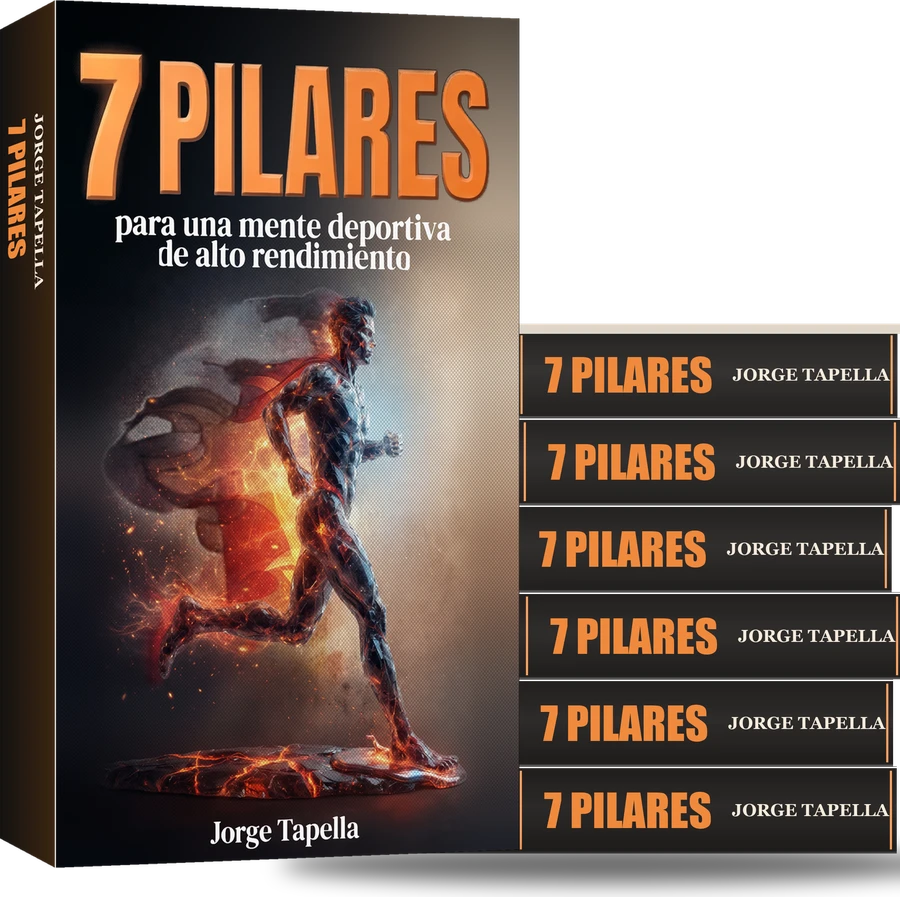
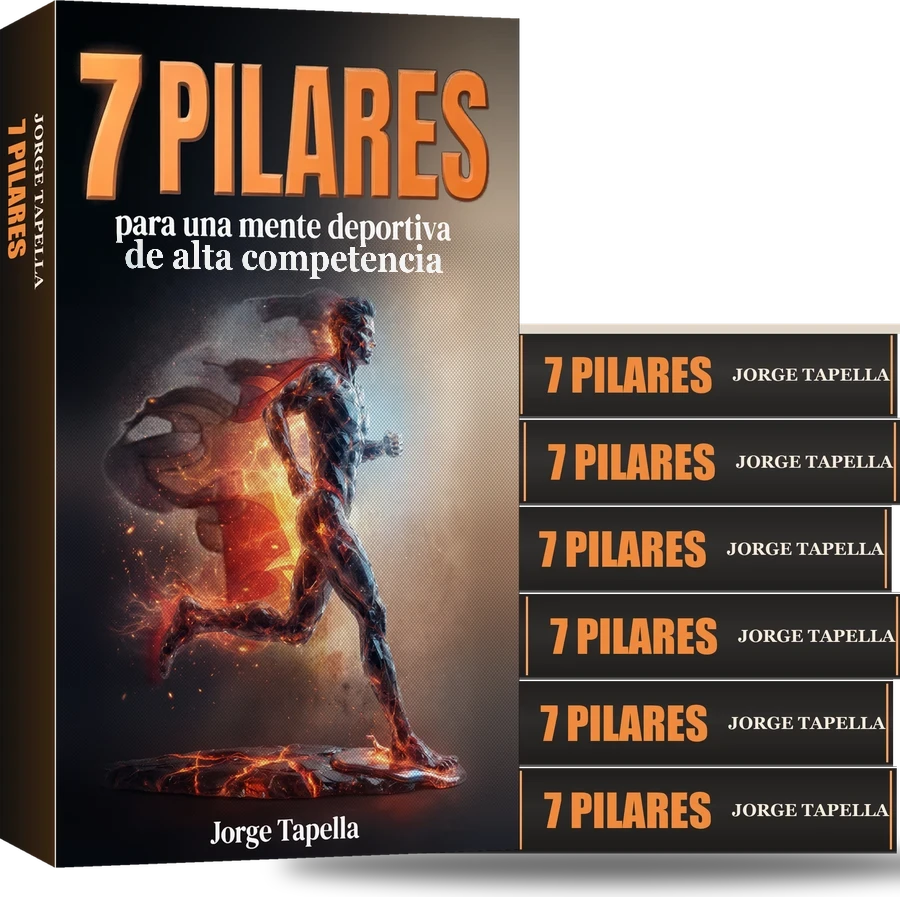
Tapa 7 Pilares: subtitulo 'de alta competencia' (libro 3D, pila y alt)

Changed region(s): [[0.1244, 0.2497, 0.4978, 0.3122]]

diff --git a/index.html b/index.html
@@ -39,7 +39,7 @@ src="https://www.facebook.com/tr?id=4065911757006473&ev=PageView&noscript=1"
   </script>
   <div class="hero-overlay"></div>
   <div class="hero-split">
-    <img class="hero-book" src="assets/img/libro-3d.webp?v=2" alt="Libro 7 Pilares para una Mente Deportiva, de Jorge Tapella" width="357" height="600">
+    <img class="hero-book" src="assets/img/libro-3d.webp?v=3" alt="Libro 7 Pilares para una Mente Deportiva, de Jorge Tapella" width="357" height="600">
   <div class="hero-content">
     <span class="eyebrow">PARA DEPORTISTAS QUE QUIEREN MÁS</span>
     <h1>TU CUERPO ESTÁ LISTO PARA<br>LAS GRANDES LIGAS,<br><span class="highlight">¿Y TU MENTE?</span></h1>
@@ -201,7 +201,7 @@ src="https://www.facebook.com/tr?id=4065911757006473&ev=PageView&noscript=1"
     <div class="offers-grid one">
       <article class="offer">
         <span class="offer-tag">EL LIBRO · EBOOK</span>
-        <div class="offer-media"><img src="assets/img/libro-3d.webp?v=2" alt="Libro 7 Pilares para una mente deportiva de alto rendimiento, de Jorge Tapella" width="357" height="600" loading="lazy"></div>
+        <div class="offer-media"><img src="assets/img/libro-3d.webp?v=3" alt="Libro 7 Pilares para una mente deportiva de alta competencia, de Jorge Tapella" width="357" height="600" loading="lazy"></div>
         <h3>7 Pilares para una Mente Deportiva</h3>
         <p class="offer-desc">Edición ampliada, para transformarte en un deportista de élite.</p>
         <ul class="offer-list">

diff --git a/social.html b/social.html
@@ -39,7 +39,7 @@ src="https://www.facebook.com/tr?id=4065911757006473&ev=PageView&noscript=1"
   </script>
   <div class="hero-overlay"></div>
   <div class="hero-split">
-    <img class="hero-book" src="assets/img/libro-3d.webp?v=2" alt="Libro 7 Pilares para una Mente Deportiva, de Jorge Tapella" width="357" height="600">
+    <img class="hero-book" src="assets/img/libro-3d.webp?v=3" alt="Libro 7 Pilares para una Mente Deportiva, de Jorge Tapella" width="357" height="600">
   <div class="hero-content">
     <span class="eyebrow">PARA DEPORTISTAS QUE QUIEREN MÁS</span>
     <h1>TU CUERPO ESTÁ LISTO PARA<br>LAS GRANDES LIGAS,<br><span class="highlight">¿Y TU MENTE?</span></h1>
@@ -201,7 +201,7 @@ src="https://www.facebook.com/tr?id=4065911757006473&ev=PageView&noscript=1"
     <div class="offers-grid one">
       <article class="offer">
         <span class="offer-tag">EL LIBRO · EBOOK</span>
-        <div class="offer-media"><img src="assets/img/libro-3d.webp?v=2" alt="Libro 7 Pilares para una mente deportiva de alto rendimiento, de Jorge Tapella" width="357" height="600" loading="lazy"></div>
+        <div class="offer-media"><img src="assets/img/libro-3d.webp?v=3" alt="Libro 7 Pilares para una mente deportiva de alta competencia, de Jorge Tapella" width="357" height="600" loading="lazy"></div>
         <h3>7 Pilares para una Mente Deportiva</h3>
         <p class="offer-desc">Edición ampliada, para transformarte en un deportista de élite.</p>
         <ul class="offer-list">
